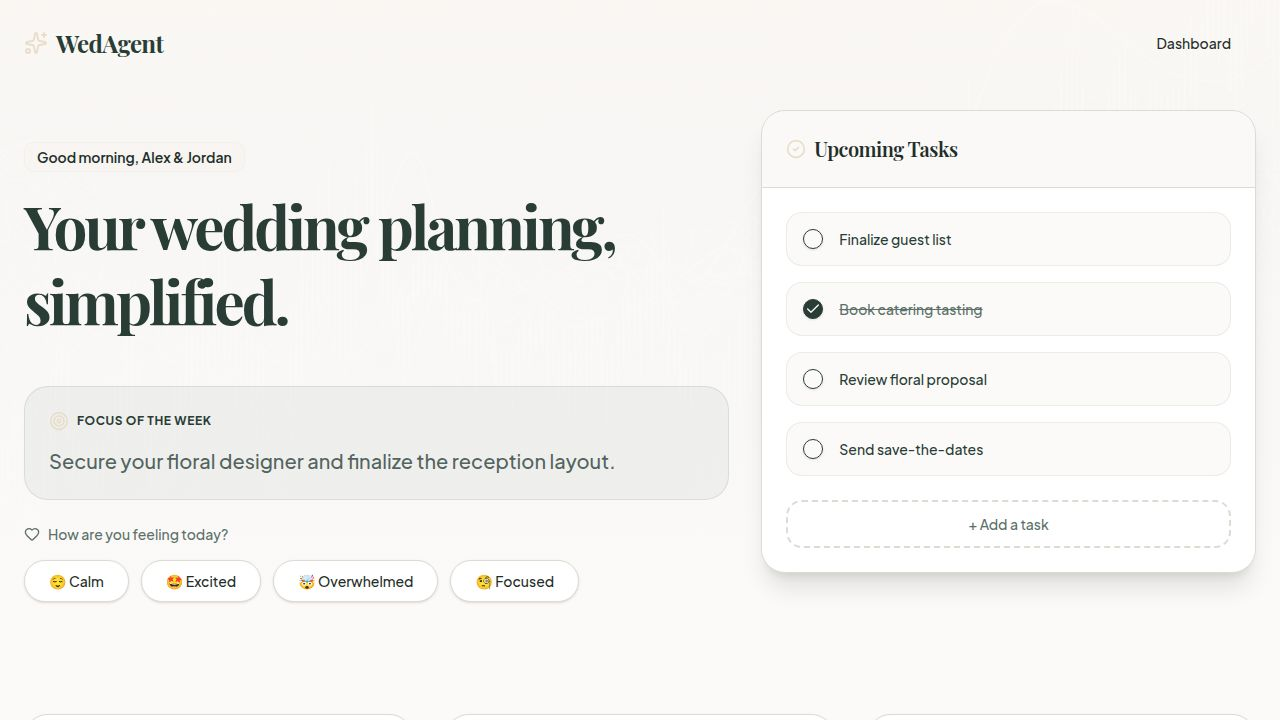
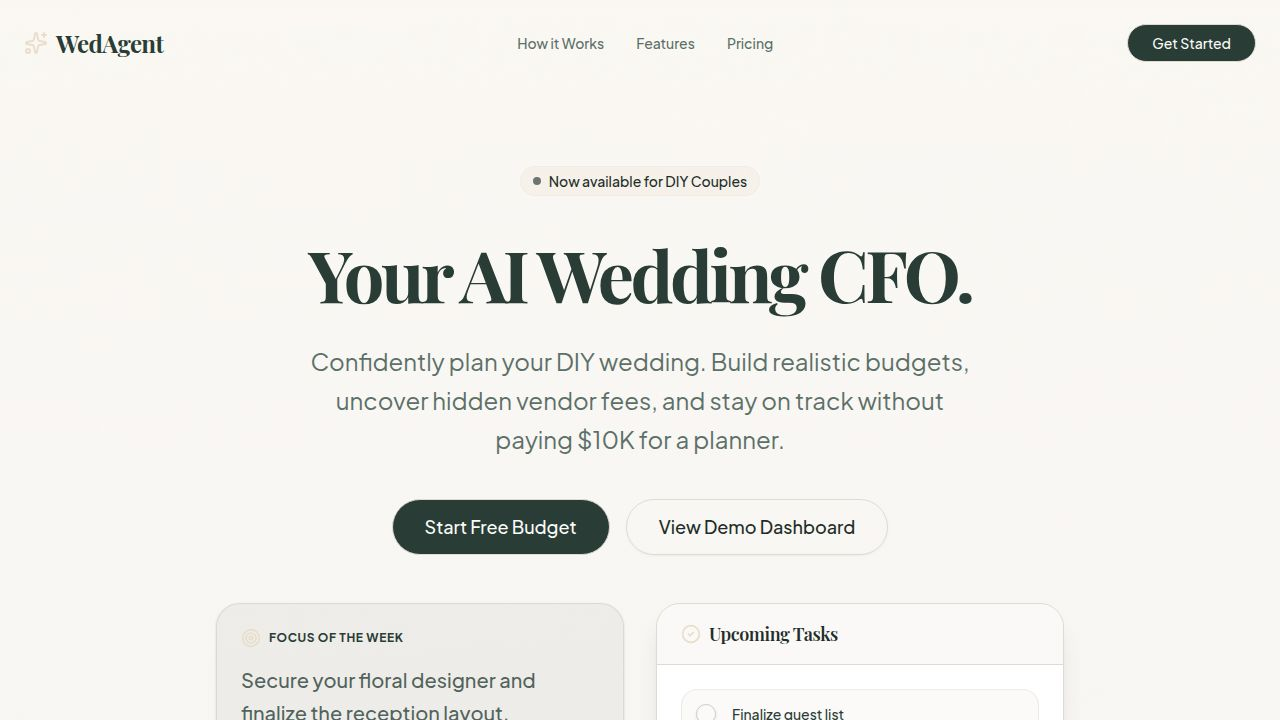
Update home page to offer product-focused presentation and planning tools
Refactors the home page component (`client/src/pages/home.tsx`) to adopt a product-focused landing page structure with integrated planning tools and a simplified budget overview.

Replit-Commit-Author: Agent
Replit-Commit-Session-Id: 02e6d6d6-8eae-4590-bf53-9e445c25760c
Replit-Commit-Checkpoint-Type: full_checkpoint
Replit-Commit-Event-Id: 2bcdc52d-e9cb-44cb-b3fe-9e71fa53b33b
Replit-Commit-Screenshot-Url: https://storage.googleapis.com/screenshot-production-us-central1/e26bd418-189c-4818-bc47-ae8eee0fc1fd/02e6d6d6-8eae-4590-bf53-9e445c25760c/htod7Ja
Replit-Helium-Checkpoint-Created: true

diff --git a/client/src/pages/home.tsx b/client/src/pages/home.tsx
@@ -2,7 +2,7 @@ import { useState } from "react";
 import { Link, useLocation } from "wouter";
 import { Button } from "@/components/ui/button";
 import heroBg from "@/assets/images/hero-bg.png";
-import { Sparkles, Calculator, FileSearch, TrendingDown, CheckCircle2, Circle, Heart, Target } from "lucide-react";
+import { Sparkles, Calculator, FileSearch, TrendingDown, ArrowRight, Check, CheckCircle2, Heart, Target } from "lucide-react";
 import { Card, CardContent, CardHeader, CardTitle } from "@/components/ui/card";
 import { Badge } from "@/components/ui/badge";
 import { Checkbox } from "@/components/ui/checkbox";
@@ -22,144 +22,230 @@ export default function Home() {
 
   return (
     <div className="min-h-screen relative flex flex-col bg-background">
-      <div className="absolute inset-0 z-0 h-[600px]">
-        <img src={heroBg} className="w-full h-full object-cover opacity-10" alt="Background" />
-        <div className="absolute inset-0 bg-gradient-to-b from-background/20 via-background/80 to-background" />
+      <div className="absolute inset-0 z-0">
+        <img src={heroBg} className="w-full h-full object-cover opacity-20" alt="Background" />
+        <div className="absolute inset-0 bg-gradient-to-b from-background/50 to-background" />
       </div>
-      
+
+      {/* ── Header ── */}
       <header className="relative z-10 w-full p-6 flex justify-between items-center max-w-7xl mx-auto">
         <div className="flex items-center gap-2 font-serif text-2xl font-bold tracking-tight text-primary">
           <Sparkles className="w-6 h-6 text-accent" />
           WedAgent
         </div>
-        <Link href="/dashboard">
-           <Button variant="ghost" className="rounded-full px-6">Dashboard</Button>
+        <nav className="hidden md:flex gap-8 text-sm font-medium text-muted-foreground">
+          <a href="#how-it-works" className="hover:text-foreground transition-colors">How it Works</a>
+          <a href="#features" className="hover:text-foreground transition-colors">Features</a>
+          <a href="#pricing" className="hover:text-foreground transition-colors">Pricing</a>
+        </nav>
+        <Link href="/builder">
+          <Button className="rounded-full px-6 bg-primary text-primary-foreground">Get Started</Button>
         </Link>
       </header>
 
-      <main className="relative z-10 flex-1 p-6 max-w-7xl mx-auto w-full pb-24">
-        <div className="grid lg:grid-cols-12 gap-8 items-start">
-          
-          {/* Left Column: Welcome & Mood */}
-          <div className="lg:col-span-7 space-y-8 py-8">
-            <div className="space-y-4">
-              <Badge variant="outline" className="bg-accent/5 text-accent-foreground border-accent/20 px-3 py-1 text-sm">
-                Good morning, Alex & Jordan
-              </Badge>
-              <h1 className="text-5xl md:text-6xl font-bold tracking-tighter text-primary leading-tight font-serif">
-                Your wedding planning,<br />simplified.
-              </h1>
-            </div>
-
-            <div className="space-y-6 pt-4">
-              <div className="p-6 rounded-3xl bg-primary/5 border border-primary/10 space-y-4">
-                <div className="flex items-center gap-2 text-primary">
-                  <Target className="w-5 h-5 text-accent" />
-                  <span className="font-bold uppercase tracking-wider text-xs">Focus of the week</span>
-                </div>
-                <p className="text-xl font-medium text-primary/80">Secure your floral designer and finalize the reception layout.</p>
-              </div>
-
-              <div className="space-y-4">
-                <div className="flex items-center gap-2 text-muted-foreground">
-                  <Heart className="w-4 h-4" />
-                  <span className="text-sm font-medium">How are you feeling today?</span>
-                </div>
-                <div className="flex flex-wrap gap-3">
-                  {["😌 Calm", "🤩 Excited", "🤯 Overwhelmed", "🧐 Focused"].map((mood) => (
-                    <button key={mood} className="px-6 py-2.5 rounded-full bg-card border border-border hover:border-accent transition-all text-sm font-medium shadow-sm hover:shadow-md active:scale-95">
-                      {mood}
-                    </button>
-                  ))}
-                </div>
-              </div>
-            </div>
-          </div>
-
-          {/* Right Column: Tasks */}
-          <div className="lg:col-span-5">
-            <Card className="rounded-3xl border-border shadow-xl overflow-hidden bg-card transition-all hover:shadow-2xl">
-              <CardHeader className="bg-muted/30 border-b border-border py-6">
-                <CardTitle className="flex items-center gap-2 text-xl font-serif">
-                  <CheckCircle2 className="w-5 h-5 text-accent" />
-                  Upcoming Tasks
-                </CardTitle>
-              </CardHeader>
-              <CardContent className="p-6 space-y-4">
-                {tasks.map((task) => (
-                  <div 
-                    key={task.id} 
-                    className="flex items-center gap-4 p-4 rounded-2xl bg-background border border-border/50 group hover:border-accent/30 transition-all cursor-pointer" 
-                    onClick={() => toggleTask(task.id)}
-                  >
-                    <Checkbox checked={task.completed} onCheckedChange={() => toggleTask(task.id)} className="rounded-full w-5 h-5" />
-                    <span className={`text-sm font-medium transition-all ${task.completed ? "line-through text-muted-foreground" : "text-primary"}`}>
-                      {task.text}
-                    </span>
-                  </div>
-                ))}
-                <Button variant="ghost" className="w-full rounded-2xl border-dashed border-2 border-border h-12 text-muted-foreground hover:text-primary hover:border-primary/30 mt-2">
-                  + Add a task
-                </Button>
-              </CardContent>
-            </Card>
-          </div>
+      {/* ── Hero ── */}
+      <main className="relative z-10 flex-1 flex flex-col items-center justify-center p-6 text-center max-w-4xl mx-auto py-20">
+        <div className="inline-flex items-center gap-2 px-3 py-1 rounded-full bg-accent/20 text-accent-foreground text-sm font-medium mb-8 border border-accent/30">
+          <span className="flex h-2 w-2 rounded-full bg-primary animate-pulse"></span>
+          Now available for DIY Couples
+        </div>
+        <h1 className="text-5xl md:text-7xl font-bold tracking-tighter text-primary mb-6 leading-tight">
+          Your AI Wedding CFO.
+        </h1>
+        <p className="text-xl md:text-2xl text-muted-foreground max-w-2xl mx-auto mb-10 leading-relaxed">
+          Confidently plan your DIY wedding. Build realistic budgets, uncover hidden vendor fees, and stay on track without paying $10K for a planner.
+        </p>
+        <div className="flex flex-col sm:flex-row justify-center gap-4 w-full sm:w-auto mb-12">
+          <Link href="/builder">
+            <Button size="lg" className="rounded-full px-8 h-14 bg-primary hover:bg-primary/90 text-primary-foreground text-lg w-full sm:w-auto">
+              Start Free Budget
+            </Button>
+          </Link>
+          <Link href="/dashboard">
+            <Button size="lg" variant="outline" className="rounded-full px-8 h-14 text-lg border-border hover:bg-muted w-full sm:w-auto">
+              View Demo Dashboard
+            </Button>
+          </Link>
         </div>
 
-        {/* Quick Tools */}
-        <section className="mt-20 grid md:grid-cols-3 gap-8">
-            <Link href="/builder">
-               <div className="group p-8 rounded-3xl bg-card border border-border hover:border-accent transition-all cursor-pointer shadow-sm hover:shadow-md">
-                  <Calculator className="w-8 h-8 text-accent mb-4 group-hover:scale-110 transition-transform" />
-                  <h3 className="text-lg font-bold mb-2">Budget Builder</h3>
-                  <p className="text-sm text-muted-foreground">Adjust your allocations and model new scenarios.</p>
-               </div>
-            </Link>
-            <Link href="/quote-normalizer">
-               <div className="group p-8 rounded-3xl bg-card border border-border hover:border-accent transition-all cursor-pointer shadow-sm hover:shadow-md">
-                  <FileSearch className="w-8 h-8 text-accent mb-4 group-hover:scale-110 transition-transform" />
-                  <h3 className="text-lg font-bold mb-2">Quote Analyzer</h3>
-                  <p className="text-sm text-muted-foreground">Uncover hidden fees in your vendor proposals.</p>
-               </div>
-            </Link>
-            <div className="group p-8 rounded-3xl bg-card border border-border hover:border-accent transition-all cursor-pointer shadow-sm hover:shadow-md">
-               <TrendingDown className="w-8 h-8 text-accent mb-4 group-hover:scale-110 transition-transform" />
-               <h3 className="text-lg font-bold mb-2">Trade-Off Engine</h3>
-               <p className="text-sm text-muted-foreground">See how small changes impact your bottom line.</p>
+        {/* ── User Interaction Section (Friendlier Features) ── */}
+        <div className="w-full max-w-5xl mx-auto grid lg:grid-cols-2 gap-8 text-left">
+          <div className="space-y-8">
+            <div className="p-6 rounded-3xl bg-primary/5 border border-primary/10 space-y-4 shadow-sm">
+              <div className="flex items-center gap-2 text-primary">
+                <Target className="w-5 h-5 text-accent" />
+                <span className="font-bold uppercase tracking-wider text-xs">Focus of the week</span>
+              </div>
+              <p className="text-xl font-medium text-primary/80 leading-relaxed">Secure your floral designer and finalize the reception layout.</p>
             </div>
-        </section>
 
-        {/* Budget Overview Section - Moved down and muted */}
-        <section className="mt-24 pt-24 border-t border-border/50">
-          <div className="flex justify-between items-end mb-10 px-2">
-            <div>
-              <h2 className="text-3xl font-serif font-bold text-primary/40 tracking-tight">Budget Snapshot</h2>
-              <p className="text-sm text-muted-foreground/60 mt-1">A high-level view of your current wedding investments.</p>
+            <div className="space-y-4">
+              <div className="flex items-center gap-2 text-muted-foreground">
+                <Heart className="w-4 h-4" />
+                <span className="text-sm font-medium">How are you feeling today?</span>
+              </div>
+              <div className="flex flex-wrap gap-3">
+                {["😌 Calm", "🤩 Excited", "🤯 Overwhelmed", "🧐 Focused"].map((mood) => (
+                  <button key={mood} className="px-5 py-2.5 rounded-full bg-card border border-border hover:border-accent transition-all text-sm font-medium shadow-sm hover:shadow-md active:scale-95">
+                    {mood}
+                  </button>
+                ))}
+              </div>
+            </div>
+          </div>
+
+          <Card className="rounded-3xl border-border shadow-xl overflow-hidden bg-card transition-all hover:shadow-2xl h-full">
+            <CardHeader className="bg-muted/30 border-b border-border py-4">
+              <CardTitle className="flex items-center gap-2 text-lg font-serif">
+                <CheckCircle2 className="w-5 h-5 text-accent" />
+                Upcoming Tasks
+              </CardTitle>
+            </CardHeader>
+            <CardContent className="p-6 space-y-3">
+              {tasks.map((task) => (
+                <div 
+                  key={task.id} 
+                  className="flex items-center gap-4 p-3.5 rounded-2xl bg-background border border-border/50 group hover:border-accent/30 transition-all cursor-pointer" 
+                  onClick={() => toggleTask(task.id)}
+                >
+                  <Checkbox checked={task.completed} onCheckedChange={() => toggleTask(task.id)} className="rounded-full w-5 h-5 border-muted-foreground/30" />
+                  <span className={`text-sm font-medium transition-all ${task.completed ? "line-through text-muted-foreground/60" : "text-primary"}`}>
+                    {task.text}
+                  </span>
+                </div>
+              ))}
+              <Button variant="ghost" className="w-full rounded-2xl border-dashed border-2 border-border h-11 text-muted-foreground hover:text-primary hover:border-primary/30 mt-1">
+                + Add a task
+              </Button>
+            </CardContent>
+          </Card>
+        </div>
+      </main>
+
+      {/* ── How It Works ── */}
+      <section id="how-it-works" className="relative z-10 bg-background py-24 border-t border-border">
+        <div className="max-w-5xl mx-auto px-6">
+          <div className="text-center mb-16">
+            <h2 className="text-3xl md:text-4xl font-serif font-bold text-primary mb-4">How It Works</h2>
+            <p className="text-muted-foreground max-w-xl mx-auto">Three steps to complete wedding budget clarity — no spreadsheets, no guesswork.</p>
+          </div>
+
+          <div className="grid md:grid-cols-3 gap-8 relative">
+            {/* Step 1 */}
+            <div className="flex flex-col items-center gap-4 text-center">
+              <div className="w-24 h-24 rounded-full bg-primary flex items-center justify-center text-primary-foreground text-3xl font-bold font-serif shadow-xl ring-8 ring-primary/10">1</div>
+              <h3 className="text-xl font-bold text-primary">Build Your Budget</h3>
+              <p className="text-muted-foreground text-sm leading-relaxed">Answer a few questions about your location, guest count, and vision. We generate a realistic budget instantly.</p>
+            </div>
+            {/* Step 2 */}
+            <div className="flex flex-col items-center gap-4 text-center">
+              <div className="w-24 h-24 rounded-full bg-primary flex items-center justify-center text-primary-foreground text-3xl font-bold font-serif shadow-xl ring-8 ring-primary/10">2</div>
+              <h3 className="text-xl font-bold text-primary">Quote Analysis</h3>
+              <p className="text-muted-foreground text-sm leading-relaxed">Upload confusing vendor proposals. We expose hidden fees and mandatory gratuities so you compare fairly.</p>
+            </div>
+            {/* Step 3 */}
+            <div className="flex flex-col items-center gap-4 text-center">
+              <div className="w-24 h-24 rounded-full bg-primary flex items-center justify-center text-primary-foreground text-3xl font-bold font-serif shadow-xl ring-8 ring-primary/10">3</div>
+              <h3 className="text-xl font-bold text-primary">Track & Adjust</h3>
+              <p className="text-muted-foreground text-sm leading-relaxed">Your live dashboard flags overruns. Smart trade-off suggestions keep your budget balanced.</p>
+            </div>
+          </div>
+        </div>
+      </section>
+
+      {/* ── Features ── */}
+      <section id="features" className="relative z-10 bg-card py-24 border-t border-border">
+        <div className="max-w-7xl mx-auto px-6">
+          <div className="text-center mb-16">
+            <h2 className="text-3xl md:text-4xl font-serif font-bold text-primary mb-4">Financial Intelligence</h2>
+            <p className="text-muted-foreground max-w-2xl mx-auto">Wedding pricing is opaque and filled with hidden costs. WedAgent gives you the financial clarity you need.</p>
+          </div>
+          <div className="grid md:grid-cols-3 gap-8">
+            <div className="bg-background p-8 rounded-2xl border border-border shadow-sm">
+              <Calculator className="w-10 h-10 text-accent mb-6" />
+              <h3 className="text-xl font-bold mb-3 text-primary">Smart Budget Builder</h3>
+              <p className="text-muted-foreground">Generate realistic, location-adjusted budgets based on market data, not arbitrary numbers.</p>
+            </div>
+            <div className="bg-background p-8 rounded-2xl border border-border shadow-sm">
+              <FileSearch className="w-10 h-10 text-accent mb-6" />
+              <h3 className="text-xl font-bold mb-3 text-primary">Quote Analysis</h3>
+              <p className="text-muted-foreground">Our AI extracts line items and reveals the true all-in cost so you can compare vendors fairly.</p>
+            </div>
+            <div className="bg-background p-8 rounded-2xl border border-border shadow-sm">
+              <TrendingDown className="w-10 h-10 text-accent mb-6" />
+              <h3 className="text-xl font-bold mb-3 text-primary">Trade-Off Engine</h3>
+              <p className="text-muted-foreground">Suggests smart reallocations and flags risks before they snowball into five-figure surprises.</p>
+            </div>
+          </div>
+        </div>
+      </section>
+
+      {/* ── Budget Overview Section (Muted/Simplified) ── */}
+      <section className="relative z-10 bg-background py-24 border-t border-border">
+        <div className="max-w-5xl mx-auto px-6">
+          <div className="flex justify-between items-end mb-12">
+            <div className="space-y-1">
+              <h2 className="text-3xl font-serif font-bold text-primary opacity-30">Budget Snapshot</h2>
+              <p className="text-sm text-muted-foreground opacity-60">High-level overview of your wedding investments.</p>
             </div>
             <Link href="/dashboard">
-              <Button variant="link" className="text-accent/60 font-bold hover:text-accent">View Full Analytics →</Button>
+              <Button variant="link" className="text-accent/50 font-bold hover:text-accent">View Full Analytics →</Button>
             </Link>
           </div>
-          
           <div className="grid md:grid-cols-3 gap-8">
             {[
-              { label: "Invested", amount: "$22,400", progress: 34, color: "bg-muted-foreground/10" },
-              { label: "Pending", amount: "$14,200", progress: 22, color: "bg-muted-foreground/10" },
-              { label: "Remaining", amount: "$28,400", progress: 44, color: "bg-muted-foreground/10" },
+              { label: "Invested", amount: "$22,400", progress: 34 },
+              { label: "Pending", amount: "$14,200", progress: 22 },
+              { label: "Remaining", amount: "$28,400", progress: 44 },
             ].map((stat) => (
-              <div key={stat.label} className="p-8 rounded-3xl bg-muted/5 border border-border/30 space-y-6">
+              <div key={stat.label} className="p-8 rounded-3xl bg-muted/5 border border-border/20 space-y-6">
                 <div className="flex justify-between items-end">
-                  <span className="text-[10px] font-bold uppercase tracking-widest text-muted-foreground/40">{stat.label}</span>
-                  <span className="text-2xl font-bold text-primary/40 font-serif">{stat.amount}</span>
+                  <span className="text-[10px] font-bold uppercase tracking-widest text-muted-foreground/30">{stat.label}</span>
+                  <span className="text-2xl font-bold text-primary/30 font-serif">{stat.amount}</span>
                 </div>
-                <div className={`h-1.5 w-full rounded-full ${stat.color} overflow-hidden`}>
-                  <div className="h-full bg-muted-foreground/20" style={{ width: `${stat.progress}%` }} />
+                <div className="h-1.5 w-full rounded-full bg-muted-foreground/5 overflow-hidden">
+                  <div className="h-full bg-muted-foreground/10" style={{ width: `${stat.progress}%` }} />
                 </div>
               </div>
             ))}
           </div>
-        </section>
-      </main>
+        </div>
+      </section>
+
+      {/* ── Pricing ── */}
+      <section id="pricing" className="relative z-10 bg-card py-24 border-t border-border">
+        <div className="max-w-5xl mx-auto px-6">
+          <div className="text-center mb-16">
+            <h2 className="text-3xl md:text-4xl font-serif font-bold text-primary mb-4">Simple Pricing</h2>
+            <p className="text-muted-foreground">Start free for 30 days — no credit card required.</p>
+          </div>
+          <div className="grid md:grid-cols-2 gap-8 max-w-3xl mx-auto">
+            <div className="bg-background border border-border rounded-2xl p-8 flex flex-col">
+              <div className="mb-4 text-sm font-bold text-muted-foreground uppercase tracking-widest">Free Trial</div>
+              <div className="text-4xl font-bold text-primary mb-2">30 days</div>
+              <p className="text-sm text-muted-foreground mb-8 italic">No credit card required</p>
+              <ul className="space-y-3 mb-8 text-sm text-muted-foreground flex-1">
+                <li className="flex items-center gap-2"><Check className="w-4 h-4 text-green-600" /> Budget Builder</li>
+                <li className="flex items-center gap-2"><Check className="w-4 h-4 text-green-600" /> Live Dashboard</li>
+                <li className="flex items-center gap-2"><Check className="w-4 h-4 text-green-600" /> Quote Analysis</li>
+              </ul>
+              <Button variant="outline" className="w-full rounded-full">Try Demo</Button>
+            </div>
+            <div className="bg-primary text-primary-foreground rounded-2xl p-8 flex flex-col relative overflow-hidden shadow-xl border border-primary">
+              <div className="absolute top-0 right-0 bg-accent text-accent-foreground text-[10px] font-bold px-3 py-1 rounded-bl-xl uppercase">Pro</div>
+              <div className="mb-4 text-sm font-bold opacity-60 uppercase tracking-widest">Subscription</div>
+              <div className="text-4xl font-bold mb-2">$29<span className="text-lg opacity-60">/mo</span></div>
+              <p className="text-sm opacity-60 mb-8 italic">After your free trial</p>
+              <ul className="space-y-3 mb-8 text-sm flex-1">
+                <li className="flex items-center gap-2"><Check className="w-4 h-4 text-accent" /> Unlimited analysis</li>
+                <li className="flex items-center gap-2"><Check className="w-4 h-4 text-accent" /> Trade-off engine</li>
+                <li className="flex items-center gap-2"><Check className="w-4 h-4 text-accent" /> Priority support</li>
+              </ul>
+              <Button className="w-full rounded-full bg-white text-primary hover:bg-white/90">Get Started</Button>
+            </div>
+          </div>
+        </div>
+      </section>
     </div>
   );
 }
